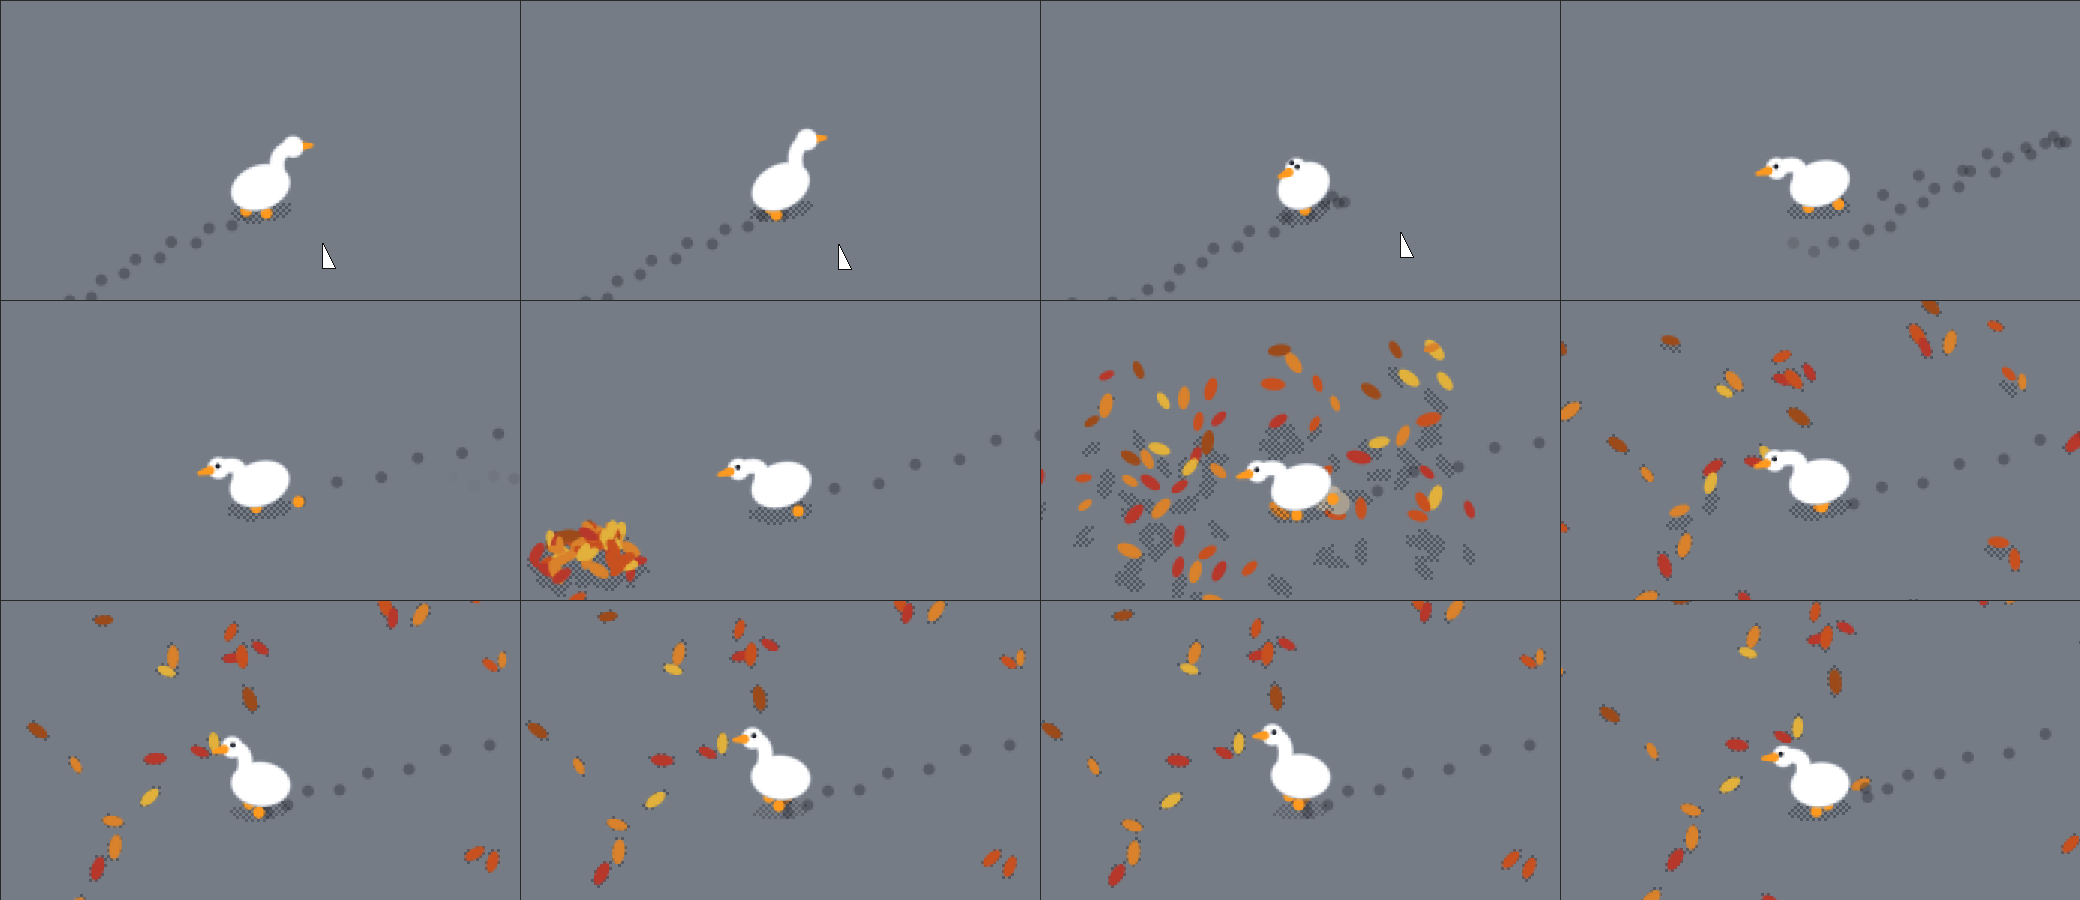
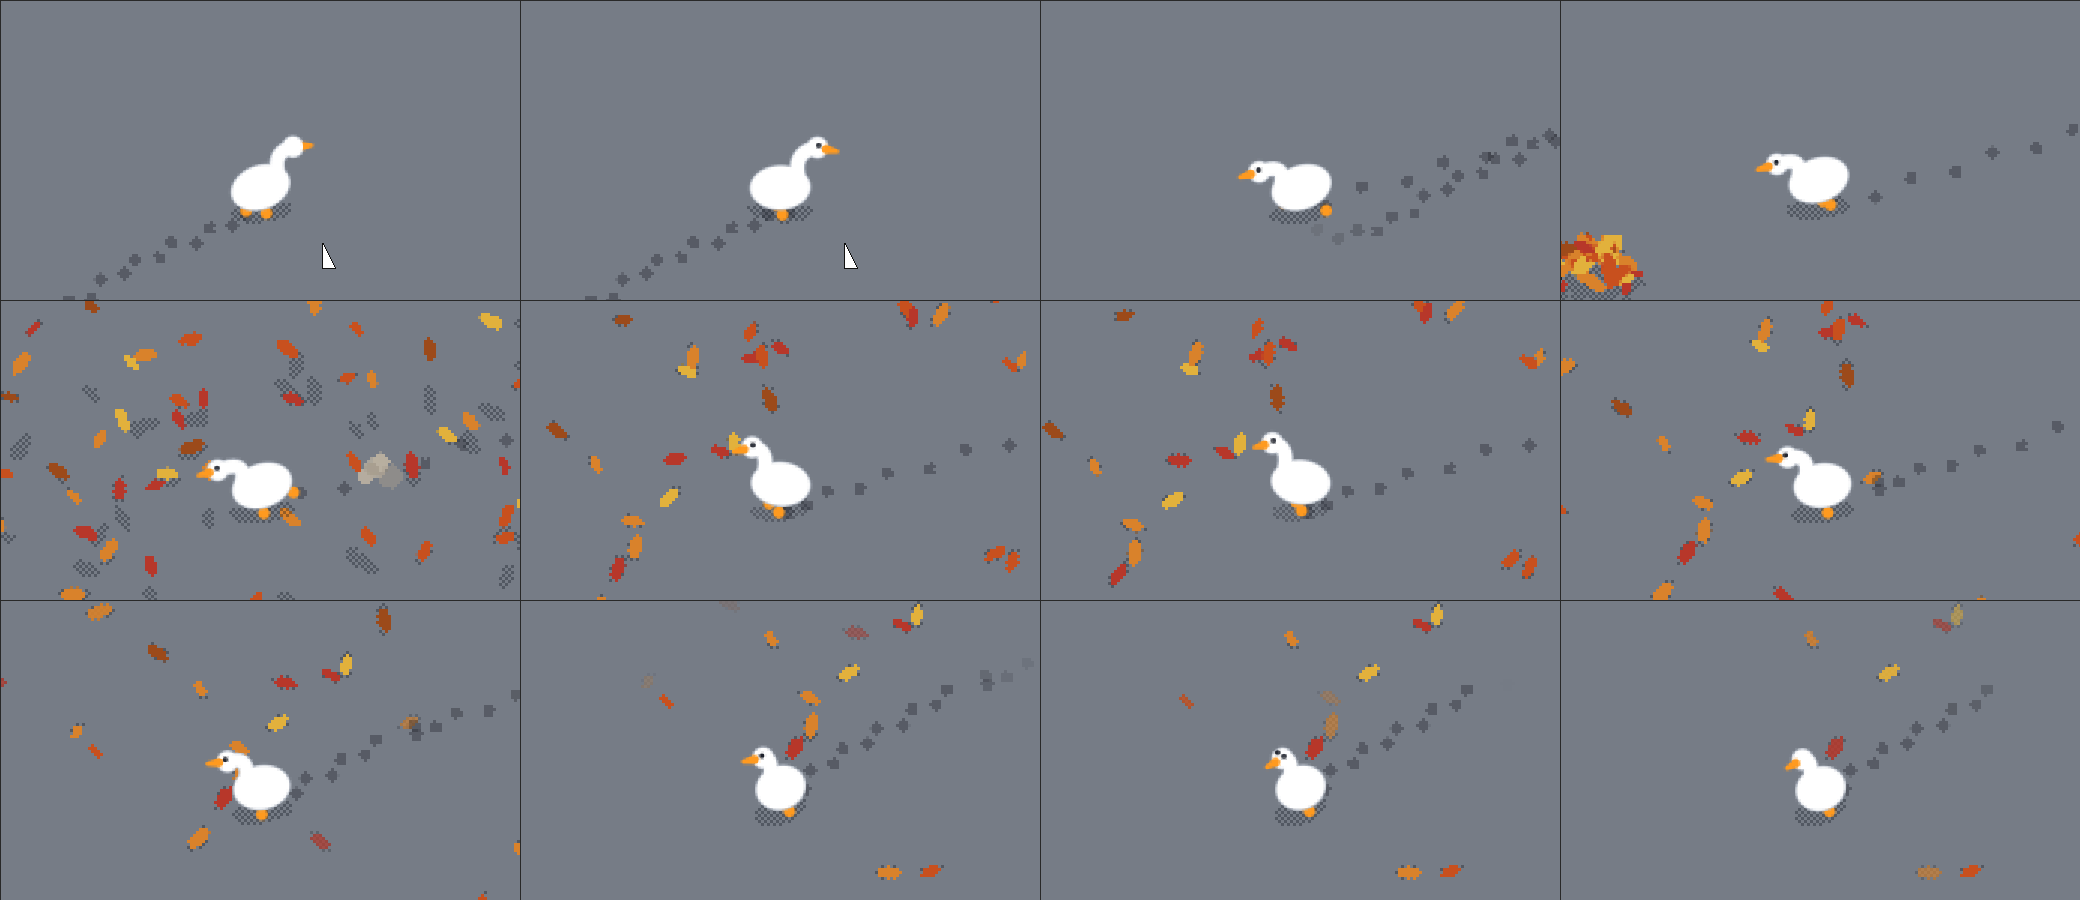
feat(render): всё на земле — ретро-клетками сетки тени

diff --git a/src/render/canvas.rs b/src/render/canvas.rs
@@ -23,6 +23,10 @@ pub struct Canvas<'a> {
     height: u32,
 }
 
+/// Доля закрытия неровного квадрата: с этой — сплошь, с меньшей — шашечкой, ниже — пусто.
+const RETRO_SOLID: f32 = 0.6;
+const RETRO_DITHER: f32 = 0.25;
+
 fn div255(x: u32) -> u32 {
     let x = x + 128;
     (x + (x >> 8)) >> 8
@@ -113,7 +117,30 @@ impl<'a> Canvas<'a> {
     /// `phase` — сдвиг сетки, чтобы она была привязана к миру, а не к холсту.
     pub fn pixelate(&mut self, block: u32, phase: [u32; 2], strength: f32) {
         let mix = alpha8(strength);
-        if block < 2 || mix == 0 {
+        if mix == 0 {
+            return;
+        }
+        self.each_block(block, phase, |canvas, xs, ys, _| {
+            canvas.flatten_block(xs, ys, mix)
+        });
+    }
+
+    /// Ретро-клетки: неровный квадрат `block`×`block` становится одним цветом, край — шашечкой
+    /// (`odd` — чётность клетки мира в начале сетки). Ровные квадраты (тень, лужа) не меняются.
+    pub fn retro(&mut self, block: u32, phase: [u32; 2], odd: bool) {
+        self.each_block(block, phase, |canvas, xs, ys, index| {
+            canvas.retro_block(xs, ys, (index[0] + index[1] + usize::from(odd)) % 2 == 0)
+        });
+    }
+
+    /// Квадраты сетки со сдвигом `phase` и номером квадрата от начала сетки.
+    fn each_block(
+        &mut self,
+        block: u32,
+        phase: [u32; 2],
+        mut f: impl FnMut(&mut Self, Range<usize>, Range<usize>, [usize; 2]),
+    ) {
+        if block < 2 {
             return;
         }
         let (width, height, block) = (self.width as usize, self.height as usize, block as usize);
@@ -123,12 +150,59 @@ impl<'a> Canvas<'a> {
             lead.into_iter().chain((first..limit).step_by(block))
         };
         let (first_x, first_y) = (first(phase[0]), first(phase[1]));
+        // Номер квадрата, в который попадает пиксель холста
+        let index = |at: usize, phase: u32| (at + phase as usize % block) / block;
         for y0 in starts(first_y, height) {
             let y1 = if y0 < first_y { first_y } else { y0 + block }.min(height);
             for x0 in starts(first_x, width) {
                 let x1 = if x0 < first_x { first_x } else { x0 + block }.min(width);
-                self.flatten_block(x0..x1, y0..y1, mix);
+                f(
+                    self,
+                    x0..x1,
+                    y0..y1,
+                    [index(x0, phase[0]), index(y0, phase[1])],
+                );
             }
+        }
+    }
+
+    fn retro_block(&mut self, xs: Range<usize>, ys: Range<usize>, even: bool) {
+        let center = ((xs.start + xs.end) / 2, (ys.start + ys.end) / 2);
+        let first = self.pixels[ys.start * self.stride + xs.start];
+        let (mut under, mut top, mut sum, mut count) = (first, first, 0u32, 0u32);
+        let mut flat = true;
+        for y in ys.clone() {
+            for x in xs.clone() {
+                let pixel = self.pixels[y * self.stride + x];
+                let alpha = pixel >> 24;
+                flat &= pixel == first;
+                sum += alpha;
+                count += 1;
+                if alpha < under >> 24 {
+                    under = pixel;
+                }
+                // Середина квадрата — при равной альфе
+                if alpha > top >> 24 || (alpha == top >> 24 && (x, y) == center) {
+                    top = pixel;
+                }
+            }
+        }
+        if flat {
+            return;
+        }
+        let (low, high) = (under >> 24, top >> 24);
+        let fill = if high == low {
+            top
+        } else {
+            let coverage = (sum as f32 / count as f32 - low as f32) / (high - low) as f32;
+            match coverage {
+                c if c >= RETRO_SOLID => top,
+                c if c >= RETRO_DITHER && even => top,
+                _ => under,
+            }
+        };
+        for y in ys {
+            self.pixels[y * self.stride..][xs.clone()].fill(fill);
         }
     }
 
@@ -425,6 +499,37 @@ mod tests {
         let alpha = |p: u32| p >> 24;
         assert!(alpha(buffer[0]) > 0x40 && alpha(buffer[0]) < 0xFF);
         assert!(alpha(buffer[3]) > 0 && alpha(buffer[3]) < 0x40);
+    }
+
+    #[test]
+    fn retro_makes_whole_cells_and_dithers_half_covered_ones() {
+        const SHADE: u32 = 0x5700_0000;
+        let cell = |b: &[u32], x: usize, y: usize| {
+            let at = |dx, dy| b[(2 * y + dy) * 4 + 2 * x + dx];
+            let first = at(0, 0);
+            [at(1, 0), at(0, 1), at(1, 1)]
+                .iter()
+                .all(|p| *p == first)
+                .then_some(first)
+        };
+        // Квадраты 2×2: на три четверти, наполовину, ровная тень, тень наполовину под краем
+        let mut base = vec![0u32; 16];
+        base[8..10].fill(SHADE);
+        base[12..14].fill(SHADE);
+        base[10..12].fill(SHADE);
+        base[14] = SHADE;
+        base[15] = SHADE;
+        for i in [0, 1, 4, 2, 6, 10, 11] {
+            base[i] = RED;
+        }
+        for (odd, half, edge) in [(false, 0, RED), (true, RED, SHADE)] {
+            let mut b = base.clone();
+            canvas(&mut b, 4).retro(2, [0, 0], odd);
+            assert_eq!(cell(&b, 0, 0), Some(RED));
+            assert_eq!(cell(&b, 1, 0), Some(half), "шашечка, odd={odd}");
+            assert_eq!(cell(&b, 0, 1), Some(SHADE), "ровная тень не тронута");
+            assert_eq!(cell(&b, 1, 1), Some(edge), "край над тенью, odd={odd}");
+        }
     }
 
     fn sprite(pixels: &[u32], side: usize) -> Sprite<'_> {

diff --git a/src/render/pixel.rs b/src/render/pixel.rs
@@ -24,6 +24,22 @@ pub fn pixelate(canvas: &mut Canvas, origin: Vec2, scale: f32) {
         return;
     }
     let cell = cell(scale);
+    canvas.pixelate(cell, phase(origin, cell), STRENGTH);
+}
+
+/// Ретро вместо мозаики для того, что лежит на земле: целые клетки той же мировой сетки,
+/// одним цветом, край — шашечкой в лад с тенью.
+pub fn retro(canvas: &mut Canvas, origin: Vec2, scale: f32) {
+    if !(origin.x.is_finite() && origin.y.is_finite()) {
+        return;
+    }
+    let cell = cell(scale);
+    let index = |at: f32| (at.round() as i64).div_euclid(i64::from(cell));
+    let odd = (index(origin.x) + index(origin.y)).rem_euclid(2) == 1;
+    canvas.retro(cell, phase(origin, cell), odd);
+}
+
+fn phase(origin: Vec2, cell: u32) -> [u32; 2] {
     let phase = |at: f32| (at.round() as i64).rem_euclid(i64::from(cell)) as u32;
-    canvas.pixelate(cell, [phase(origin.x), phase(origin.y)], STRENGTH);
+    [phase(origin.x), phase(origin.y)]
 }

diff --git a/src/render/scene.rs b/src/render/scene.rs
@@ -224,7 +224,7 @@ pub fn draw_effects(canvas: &mut Canvas, origin: Vec2, effects: &Effects<'_>, ui
     for particle in effects.particles.iter() {
         marks::draw(canvas, origin, &particle);
     }
-    pixel::pixelate(canvas, origin, ui_scale);
+    pixel::retro(canvas, origin, ui_scale);
 }
 
 // --- карточка ---

diff --git a/docs/visual-style.md b/docs/visual-style.md
@@ -124,6 +124,12 @@ h = пик × (1 − (r/R)²) × случайное(0,25…1)
 - Мозаика кладётся **последним шагом** на весь холст. Исключение — текст.
 - Фигуры рисуются **сглаженными** (край в пиксель), мозаика уже потом делает из них
   мягкие ступеньки. Несглаженные фигуры после мозаики дают рваный край.
+- **Земля — в ретро-клетках, а не в мозаике.** Всё в окне эффектов (лужи, следы, листья,
+  предметы, частицы, гусята) проходит `pixel::retro` вместо `pixelate`: каждая неровная
+  клетка той же мировой сетки становится одним цветом — середины клетки; клетка, закрытая
+  фигурой на ≥ 0,6, — сплошь, на 0,25–0,6 — шашечкой в лад с тенью, меньше — пусто (виден
+  фон или тень под ней). Ровные клетки (тень, лужа, середина фигуры) не меняются. Персонаж
+  и карточка остаются в лёгкой мозаике.
 
 ## Тень
 
@@ -200,7 +206,7 @@ h = пик × (1 − (r/R)²) × случайное(0,25…1)
 - Куча блином: без высоты и без сжатия глубины это просто пятно.
 - Тень, которая летит вместе с предметом, или предмет без тени.
 - Затенение одной стороны, блик, «объёмная» штриховка — объём только высотой.
-- Сильная мозаика (сила 1,0) и мозаика, привязанная к предмету вместо мира.
+- Сильная мозаика (сила 1,0) у персонажа и карточки; сетка, привязанная к предмету вместо мира.
 - Мозаика поверх текста.
 - Появление из ниоткуда и исчезновение схлопыванием.
 
@@ -214,7 +220,7 @@ h = пик × (1 − (r/R)²) × случайное(0,25…1)
 4. **Рисование** на чистом холсте, строго в этом порядке:
    `shadow::dotted(…)` под каждой опорой → фигуры от дальних к ближним через
    `Canvas::fill_circle / fill_ellipse / fill_capsule / fill_round_rect` →
-   `pixel::pixelate(…)` → текст, если есть.
+   `pixel::retro(…)` (на земле) или `pixel::pixelate(…)` (персонаж, карточка) → текст, если есть.
 5. **Движение.** Появление броском с тенью на земле, затухание, срок жизни, уход растворением.
 6. **Проверка.** Кадры на сером и на белом фоне в увеличении 3×, по списку ниже.
 
@@ -224,7 +230,7 @@ h = пик × (1 − (r/R)²) × случайное(0,25…1)
 - [ ] под предметом шашечка тени, сквозь неё виден фон, двойного затемнения нет;
 - [ ] видно, что предмет стоит **на плоскости**: круглое сплюснуто, куча — горбом;
 - [ ] у поднятого над землёй есть просвет до тени, тень при этом на земле;
-- [ ] края мягко-ступенчатые: не «лесенка» пиксель-арта и не гладкий вектор;
+- [ ] у персонажа края мягко-ступенчатые; у того, что на земле, — целые клетки с краем шашечкой;
 - [ ] нет ничего чёрного, размытого, блестящего, с градиентом;
 - [ ] рядом с гусём и листьями предмет выглядит из того же набора;
 - [ ] в движении он брошен, летит по дуге, падает и затихает, а не возникает и не едет;

diff --git a/docs/character.md b/docs/character.md
@@ -334,7 +334,7 @@ companion.tick();                                // выходки и событ
    шаг в `age_effects`, учёт в `is_dormant` и в `scene::Effects`; рисование — ветка в
    `scene::draw_effects`, охват — в `scene::effects_rect`. Тень предмета с высотой —
    `shadow::dotted(...)` до рисования самого предмета; плоское на земле (лужа) тени не
-   имеет. Мозаику на весь холст кладёт `pixel::pixelate`.
+   имеет. Ретро-клетки на весь холст эффектов кладёт `pixel::retro`.
 5. Сценарий в `src/sim/stunt_tests/` (общие файлы подключены к свинке, гусю и спрайту,
    видовые — к своему телу). Сценарии в режиме `Stay` прячут ошибки остановки: общий тест
    `every_stunt_finishes_while_wandering` гоняет все сценки в свободной прогулке, как на
